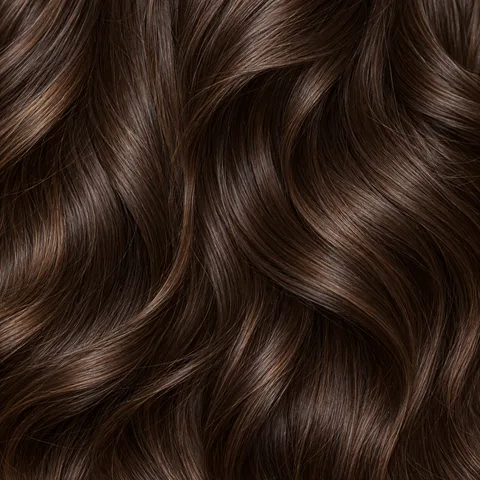
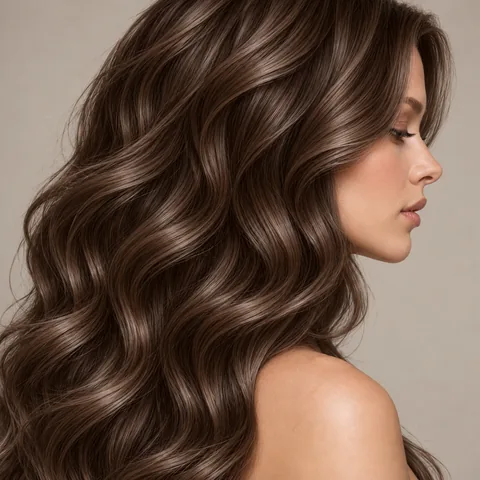
Preferences: new hair photos and photo cards for body types
Body types switch from SVG outline icons to photos, so all three categories are photo cards. Originals are kept out of git in assets-src/onboarding-v2.

diff --git a/src/components/Onboarding.tsx b/src/components/Onboarding.tsx
@@ -14,11 +14,6 @@ interface Option { id: string; label: string; visual: ReactNode }
 
 const img = (src: string) => <img src={src} alt="" draggable={false} />
 
-// Body-type artwork is a single-color SVG used as a mask, so it follows currentColor
-const bodyArt = (id: string) => (
-  <span className="onb-body-art" style={{ maskImage: `url(/onboarding/body-${id}.svg)`, WebkitMaskImage: `url(/onboarding/body-${id}.svg)` }} />
-)
-
 const CATEGORIES: { key: keyof Preferences; title: string; options: Option[] }[] = [
   {
     key: 'hair',
@@ -33,9 +28,9 @@ const CATEGORIES: { key: keyof Preferences; title: string; options: Option[] }[]
     key: 'body',
     title: 'Body type',
     options: [
-      { id: 'slim', label: 'Slim', visual: bodyArt('slim') },
-      { id: 'athletic', label: 'Athletic', visual: bodyArt('athletic') },
-      { id: 'curvy', label: 'Curvy', visual: bodyArt('curvy') },
+      { id: 'slim', label: 'Slim', visual: img('/onboarding/body-slim.webp') },
+      { id: 'athletic', label: 'Athletic', visual: img('/onboarding/body-athletic.webp') },
+      { id: 'curvy', label: 'Curvy', visual: img('/onboarding/body-curvy.webp') },
     ],
   },
   {

diff --git a/src/styles.css b/src/styles.css
@@ -1273,22 +1273,9 @@ button:focus-visible { outline: 2px solid #fff; outline-offset: 2px; }
 }
 .onb-visual img { width: 100%; height: 100%; object-fit: cover; transition: transform 400ms var(--ease); }
 .onb-card.is-on .onb-visual img { transform: scale(1.06); }
-.onb-grid.is-body .onb-visual {
-  background: radial-gradient(80% 80% at 50% 30%, rgba(255, 255, 255, 0.08), transparent 70%);
-  padding-bottom: 18px;
-}
+
 .onb-card.is-on .onb-visual { color: #ff8ae0; }
-.onb-body-art {
-  width: 70%;
-  height: 70%;
-  background-color: currentColor;
-  mask-repeat: no-repeat;
-  mask-position: center;
-  mask-size: contain;
-  -webkit-mask-repeat: no-repeat;
-  -webkit-mask-position: center;
-  -webkit-mask-size: contain;
-}
+
 
 /* Caption sits on a shade at the bottom of the card */
 .onb-label {
